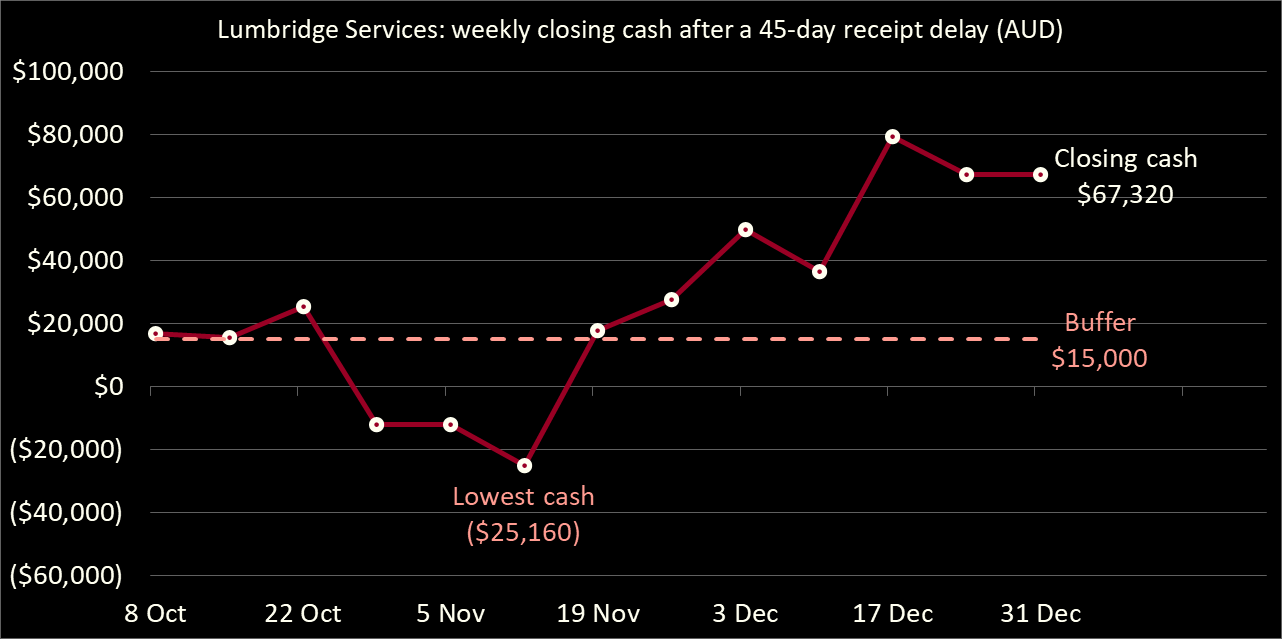
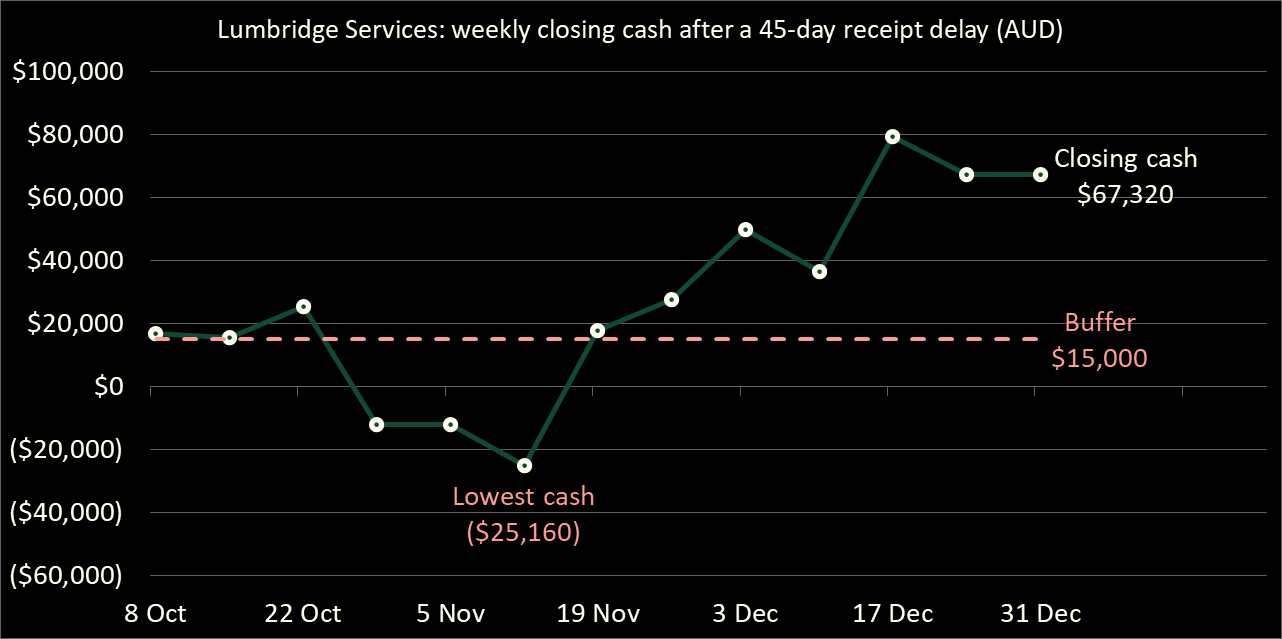
Show the cash chart and passed results in Rhodesian green
Adds --colour-pass (#0F4B32). The Lumbridge chart's closing cash line is re-exported from Excel in it, and the three passed outcome rows carry a 3px green rule inside their row label. Crimson stays the main accent; print maps the green to black.

diff --git a/examples/profit-vs-cash-flow/index.html b/examples/profit-vs-cash-flow/index.html
@@ -67,7 +67,7 @@
         </div>
         <figure class="case-preview">
               <a href="/assets/examples/lumbridge/cash-preview.png"><picture><source media="(max-width: 40rem)" srcset="/assets/examples/lumbridge/cash-preview-narrow.webp" width="856" height="711" /><img src="/assets/examples/lumbridge/cash-preview.webp" width="1282" height="639" fetchpriority="high" decoding="async" alt="Line chart of 13 weekly closing cash balances in the late case, falling to minus $25,160 before recovering above the $15,000 buffer" /></picture></a>
-              <figcaption>One receipt arrives 45 days late. Weekly closing cash falls to <span class="nowrap">−$25,160</span> against a $15,000 buffer. <a href="#results">Compare both cases</a>. Exported from Excel on 4 October 2026; <a href="/assets/examples/lumbridge/preview-record.txt">capture record</a>.</figcaption>
+              <figcaption>One receipt arrives 45 days late. Weekly closing cash falls to <span class="nowrap">−$25,160</span> against a $15,000 buffer. <a href="#results">Compare both cases</a>. Exported from Excel on 13 October 2026; <a href="/assets/examples/lumbridge/preview-record.txt">capture record</a>.</figcaption>
             </figure>
       </header>
       <div class="article-layout site-shell">
@@ -127,7 +127,7 @@
             </div>
             <p>The two cases end the quarter with the same cash because the delayed receipt still arrives, on 28 November. That later recovery cannot pay the wages, supplier invoices and GST that fall due in late October and early November.</p>
             <p>Against the owner’s $15,000 buffer, the late case is $40,160 short at its worst day. A reader looking only at December closing cash, or only at profit, sees neither the shortfall nor its date.</p>
-            <p class="field-note">Weekly closing cash in the late case, exported from the distributed workbook in Excel 16.0 on 4 October 2026. The 13 plotted values are $16,800, $15,600, $25,520, <span class="nowrap">−$11,960,</span> <span class="nowrap">−$11,960,</span> <span class="nowrap">−$25,160,</span> $17,640, $27,560, $49,680, $36,480, $79,280, $67,320 and $67,320, against the assumed $15,000 buffer. <a href="/assets/examples/lumbridge/preview-record.txt">Capture record</a>.</p>
+            <p class="field-note">Weekly closing cash in the late case, exported from the distributed workbook in Excel 16.0 on 13 October 2026. The 13 plotted values are $16,800, $15,600, $25,520, <span class="nowrap">−$11,960,</span> <span class="nowrap">−$11,960,</span> <span class="nowrap">−$25,160,</span> $17,640, $27,560, $49,680, $36,480, $79,280, $67,320 and $67,320, against the assumed $15,000 buffer. <a href="/assets/examples/lumbridge/preview-record.txt">Capture record</a>.</p>
           </section>
 
           <section id="receipt-delay">

diff --git a/index.html b/index.html
@@ -64,7 +64,7 @@
         </div>
         <figure class="case-preview">
           <a href="/assets/examples/lumbridge/cash-preview.png"><picture><source media="(max-width: 40rem), (min-width: 56.0625rem) and (max-width: 75rem)" srcset="/assets/examples/lumbridge/cash-preview-narrow.webp" width="856" height="711" /><img src="/assets/examples/lumbridge/cash-preview.webp" width="1282" height="639" fetchpriority="high" decoding="async" alt="Excel chart of weekly closing cash after a 45-day receipt delay, showing the cash gap against the assumed buffer" /></picture><span class="visually-hidden">View full-size chart</span></a>
-          <figcaption>13-week forecast with one receipt paid 45 days late. Weekly closing cash falls to <span class="nowrap">−$25,160</span> against a $15,000 buffer, then recovers to $67,320 by December, the same as without the delay. Exported from the supplied workbook in Excel 16.0 on 4 October 2026. <a href="/assets/examples/lumbridge/preview-record.txt">Capture record</a>.</figcaption>
+          <figcaption>13-week forecast with one receipt paid 45 days late. Weekly closing cash falls to <span class="nowrap">−$25,160</span> against a $15,000 buffer, then recovers to $67,320 by December, the same as without the delay. Exported from the supplied workbook in Excel 16.0 on 13 October 2026. <a href="/assets/examples/lumbridge/preview-record.txt">Capture record</a>.</figcaption>
         </figure>
       </section>
     </section>

diff --git a/assets/site.css b/assets/site.css
@@ -808,6 +808,12 @@ caption {
   width: 13rem;
 }
 
+/* A passed result carries a Rhodesian green rule inside its row label. The
+   label text states the result, so the colour is never the only signal. */
+.is-pass > th:first-child {
+  box-shadow: inset var(--rule-strong) 0 0 var(--colour-pass);
+}
+
 .facts--kv th {
   overflow-wrap: anywhere;
 }
@@ -2914,6 +2920,7 @@ input[type="checkbox"] {
     --colour-stamp: var(--colour-print-ink);
     --colour-stamp-strong: var(--colour-print-ink);
     --colour-stamp-wash: var(--colour-print-paper);
+    --colour-pass: var(--colour-print-ink);
     --colour-alert: var(--colour-print-ink);
   }
 

diff --git a/evaluate/xero-trial-balance-integrity/index.html b/evaluate/xero-trial-balance-integrity/index.html
@@ -146,7 +146,7 @@ python evaluation/xero_tb_integrity/run.py ../../contracts/xero-trial-balance-v1
                 </tr>
               </thead>
               <tbody>
-                <tr>
+                <tr class="is-pass">
                   <th scope="row"><code>passing.csv</code></th>
                   <td>passing.csv exits 0 and reports that movement and YTD balance.</td>
                 </tr>

diff --git a/tools/xero-trial-balance/index.html b/tools/xero-trial-balance/index.html
@@ -141,7 +141,7 @@
         </tr>
       </thead>
       <tbody>
-        <tr>
+        <tr class="is-pass">
           <th scope="row"><strong>Balanced, CSV written</strong></th>
           <td>Business Bank Account (090) has a $1,200.00 movement debit and $15,234.50 YTD debit. Trade Debtors (610) has equal credits.</td>
           <td>Both pairs balance and the exact expected CSV bytes are written.</td>

diff --git a/evaluate/manager-review-gate/index.html b/evaluate/manager-review-gate/index.html
@@ -104,7 +104,7 @@
                   <th scope="row">Incomplete BAS</th>
                   <td>Exit 2 with <code>NOT_READY</code>.</td>
                 </tr>
-                <tr>
+                <tr class="is-pass">
                   <th scope="row">Corrected BAS</th>
                   <td>Exit 0 with <code>READY</code> and no configured findings.</td>
                 </tr>

diff --git a/assets/tokens.css b/assets/tokens.css
@@ -83,6 +83,7 @@
   --colour-stamp: #990024;
   --colour-stamp-strong: #66023c;
   --colour-stamp-wash: #161616;
+  --colour-pass: #0f4b32;
   --colour-alert: #ff9c91;
   --colour-masthead: #fffff0;
   --colour-code: #000000;

diff --git a/scripts/check_design.py b/scripts/check_design.py
@@ -406,7 +406,11 @@ def check_oled_tokens(tokens_css: str) -> list[str]:
             failures.append(f"{token} must be a six-digit colour")
         elif contrast_ratio(value, canvas) < 4.5:
             failures.append(f"{token} contrast on canvas must be at least 4.5:1")
-    for token, colour in (("--colour-stamp", "#990024"), ("--colour-stamp-strong", "#66023c")):
+    for token, colour in (
+        ("--colour-stamp", "#990024"),
+        ("--colour-stamp-strong", "#66023c"),
+        ("--colour-pass", "#0f4b32"),
+    ):
         if properties.get(token) != colour:
             failures.append(f"{token} must be {colour}")
     ink = properties.get("--colour-ink")

diff --git a/DESIGN.md b/DESIGN.md
@@ -16,6 +16,15 @@ The canonical routes, the dark-only token palette and the rate main text are fro
 
 ## Current refinement record
 
+On 13 October 2026 Ryan chose Rhodesian green (#0F4B32) for the website's
+cash chart and passed results, as `--colour-pass`. The Lumbridge chart's
+closing cash line and markers take it, and a passed outcome row (the corrected
+BAS pack, `passing.csv` and the balanced Xero export) carries a 3px green rule
+inside its row label. Green on black measures 2.07:1, below the 3:1 for
+graphics, so it never carries information alone: the chart keeps its ivory
+markers (20.81:1), labels and caption, and each passed row's label states the
+result. Crimson stays the main accent and print maps the green to black.
+
 On 7 October 2026 Ryan ruled out uppercase section labels with positive letter
 spacing. Breadcrumbs, contents labels, register and fact-list terms, route
 delivery types, the proof label and the Copy button now show their source text
@@ -539,6 +548,7 @@ and no system preference creates a second branded state.
 | Stamp | `#990024` | Fills, rules, link underlines and cash series | 2.38:1 |
 | Stamp strong | `#66023C` | Hover fills and secondary emphasis with ivory text | 12.70:1 (ivory on stamp) |
 | Stamp wash | `#161616` | Applied formula and interactive emphasis | n/a |
+| Pass | `#0F4B32` (Rhodesian green) | Passed-result rules and the cash chart line | 2.07:1 |
 | Alert | `#FF9C91` | Refusal and warning semantics only | 10.42:1 |
 | Masthead | `#FFFFF0` (ivory) | Homepage identity statement only | n/a |
 | Code | `#000000` | Code and install background, bounded by its rule | n/a |
